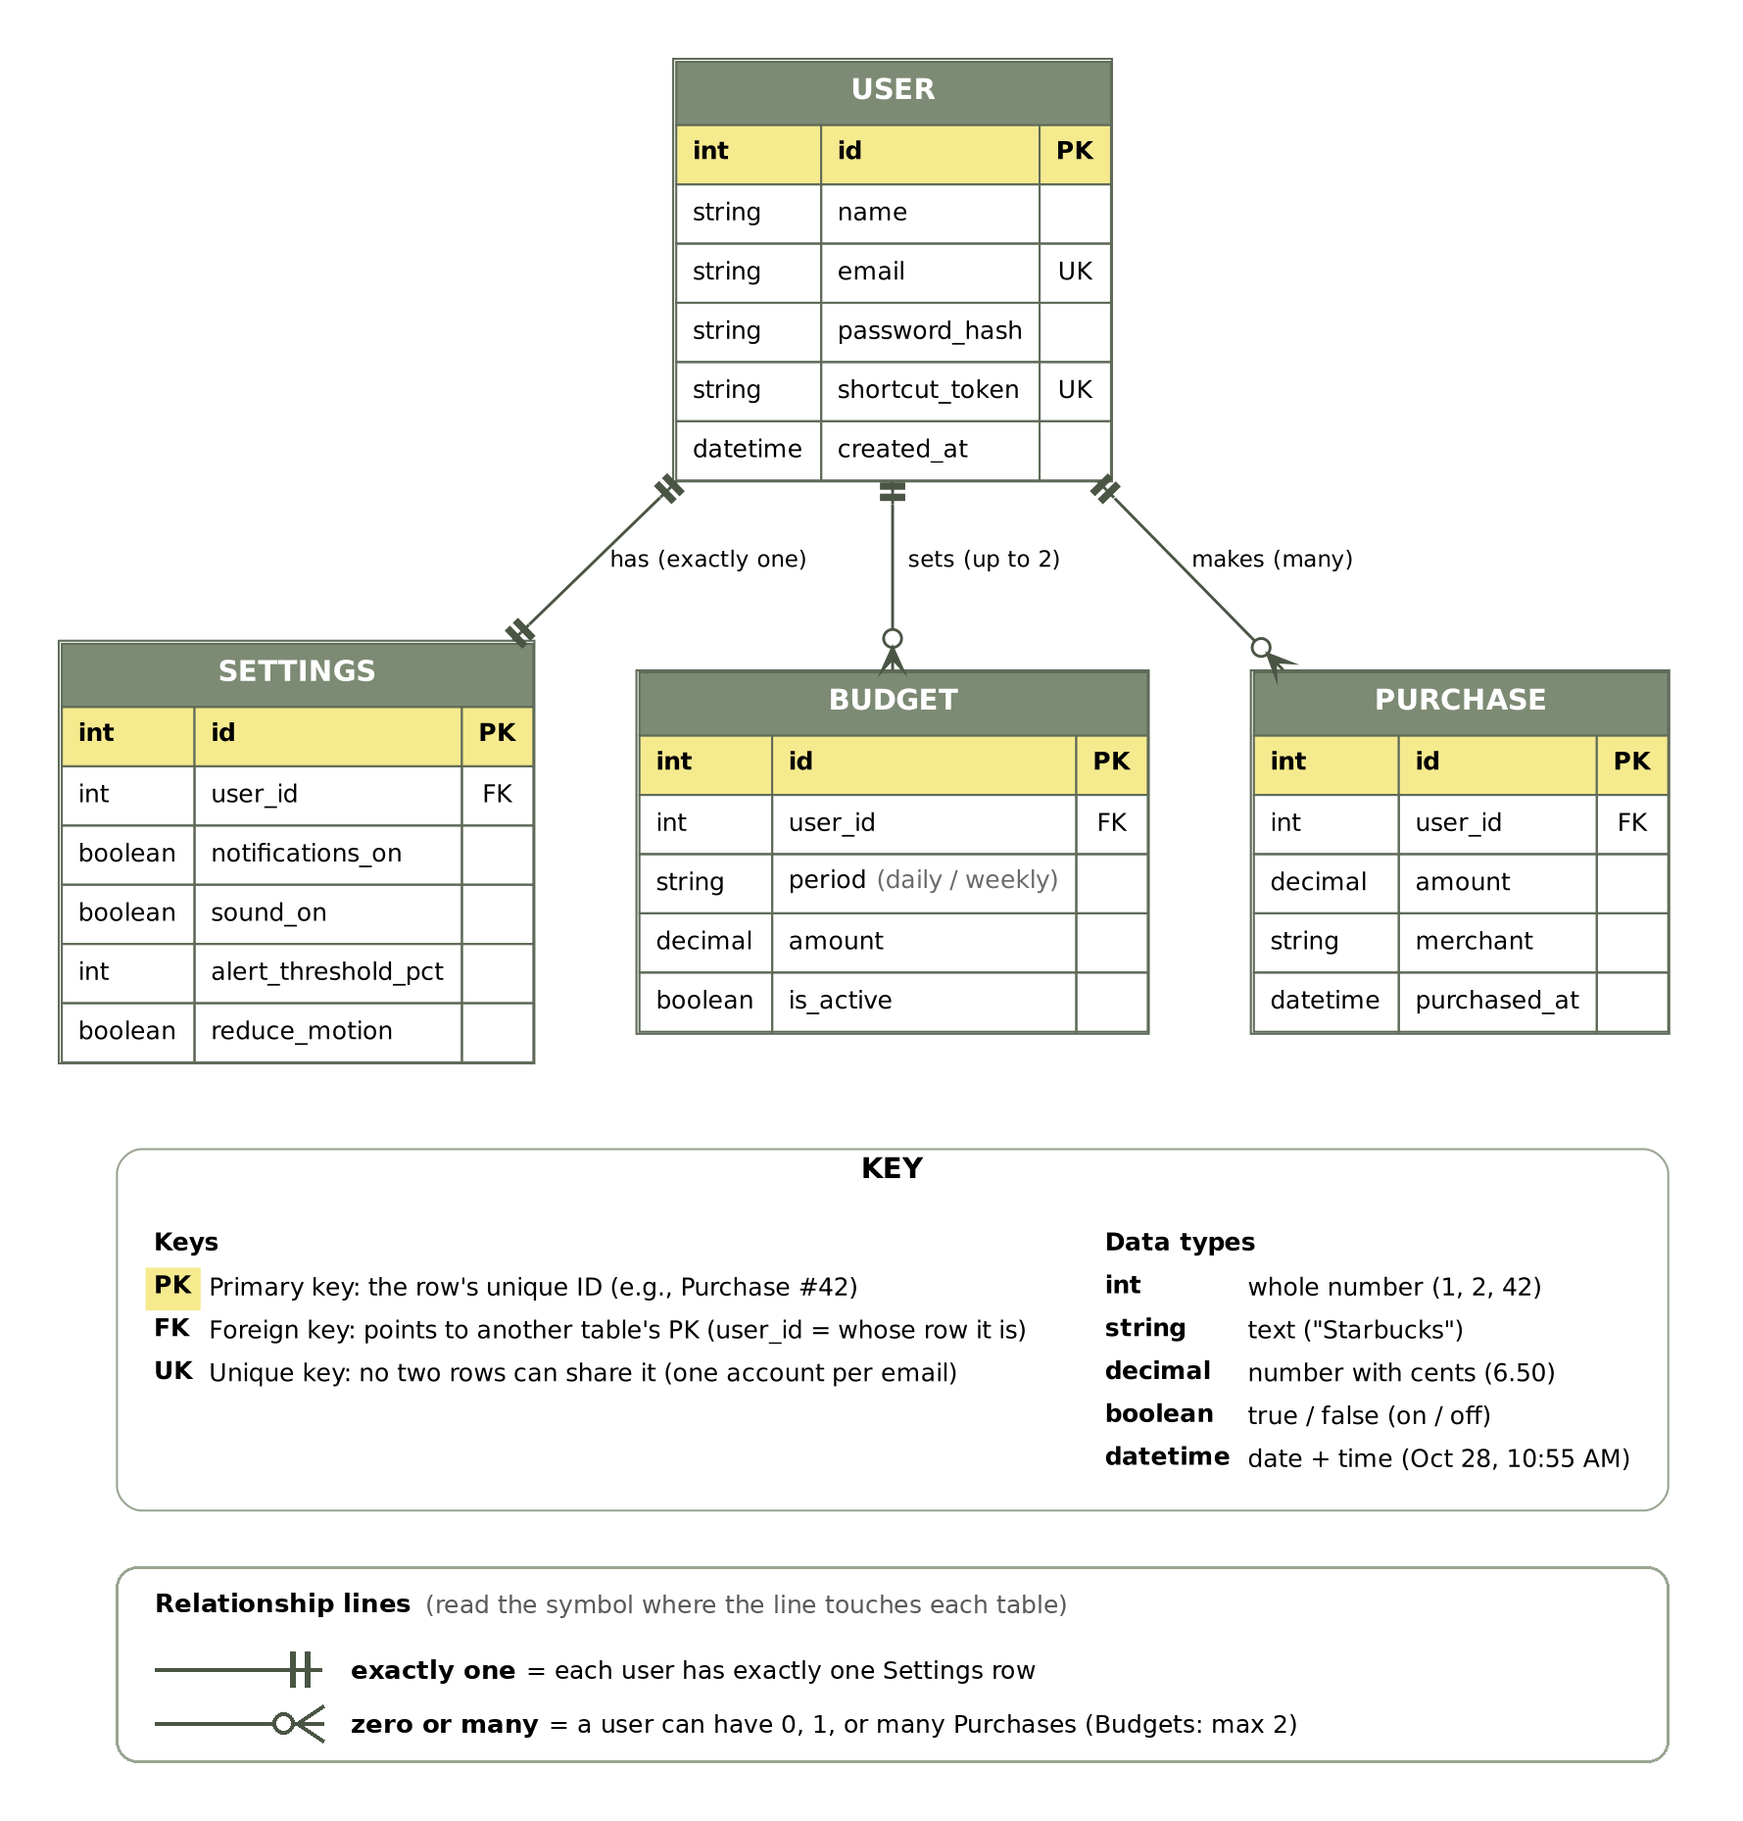
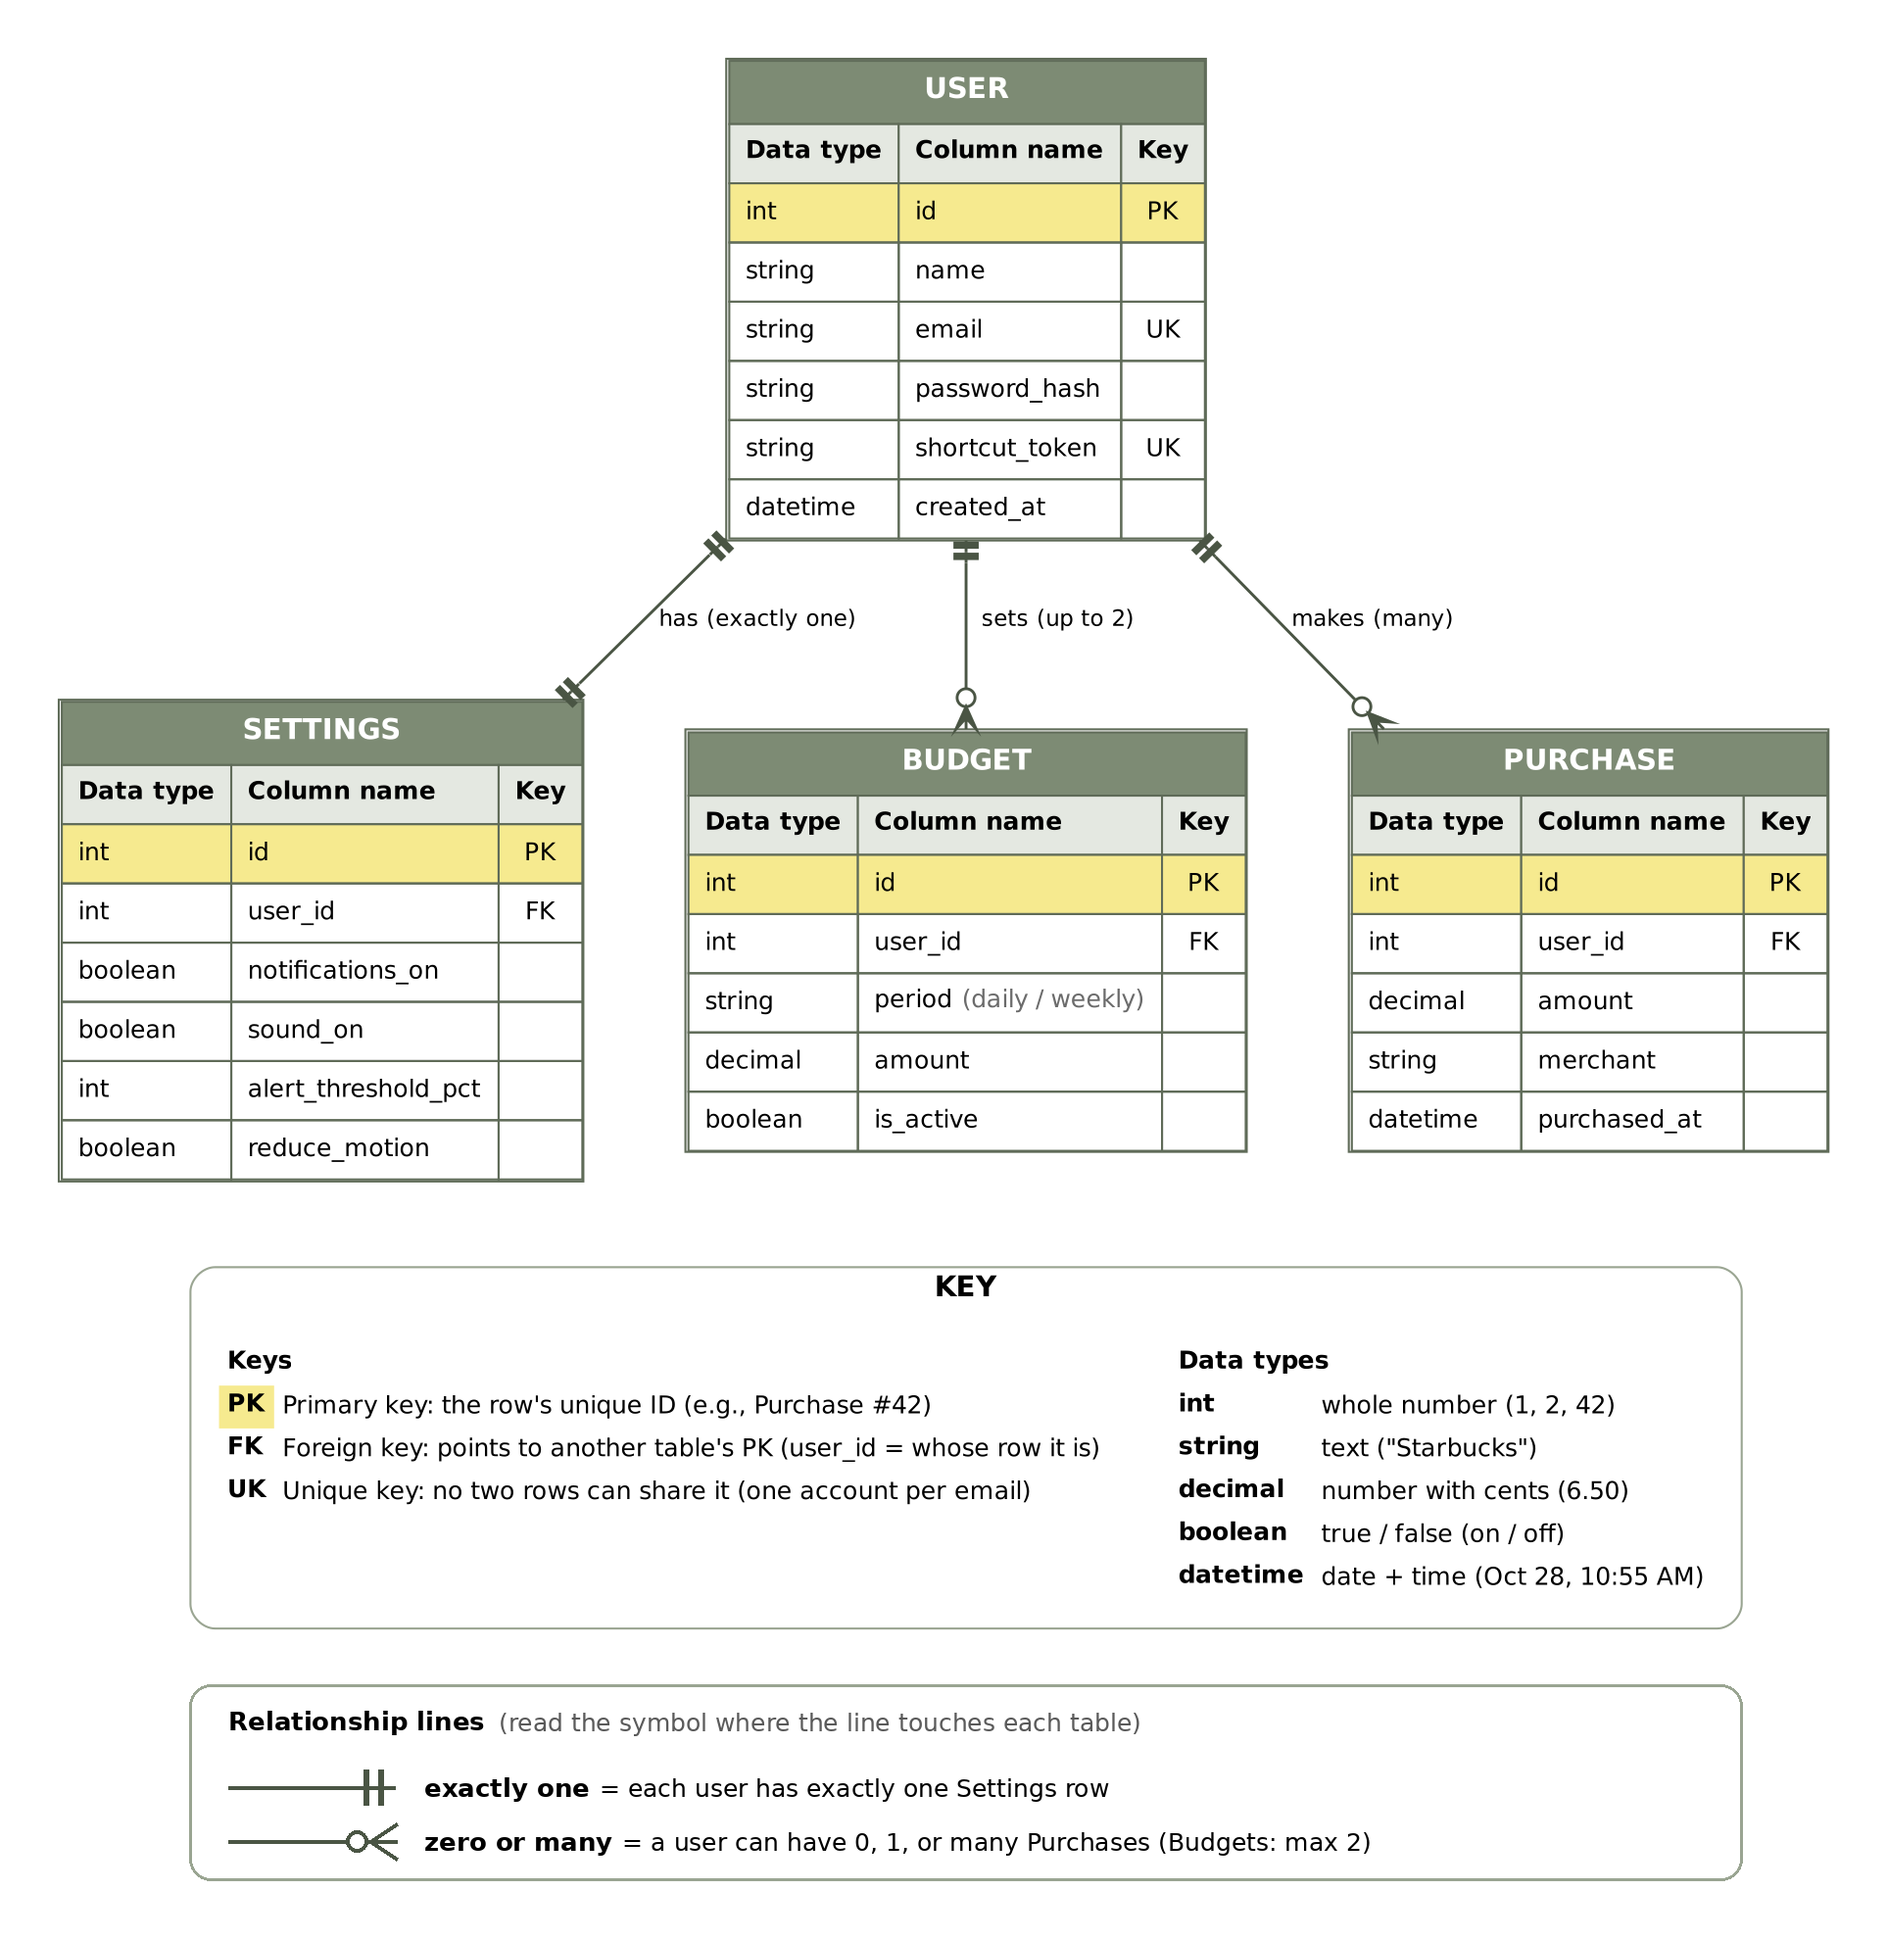
Label ER diagram columns (Data type, Column name, Key)

diff --git a/docs/er-diagram.md b/docs/er-diagram.md
@@ -4,7 +4,7 @@ An entity-relationship (ER) diagram shows **what Clink stores** and **how those 
 
 ![Clink ER diagram](diagrams/er-diagram.png)
 
-Primary keys are **bolded and highlighted in yellow**. The key at the bottom of the image explains each label, data type, and line symbol. *(Diagram source: [`diagrams/er-diagram.dot`](diagrams/er-diagram.dot), rendered with Graphviz.)*
+Each table has a bold header row labeling its columns: **Data type**, **Column name**, and **Key**. Primary-key rows are highlighted in yellow. The key at the bottom of the image explains each label, data type, and line symbol. *(Diagram source: [`diagrams/er-diagram.dot`](diagrams/er-diagram.dot), rendered with Graphviz.)*
 
 ---
 
